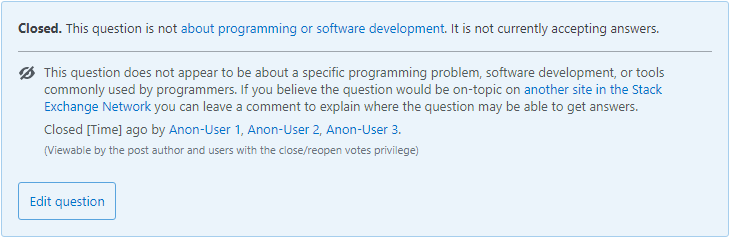
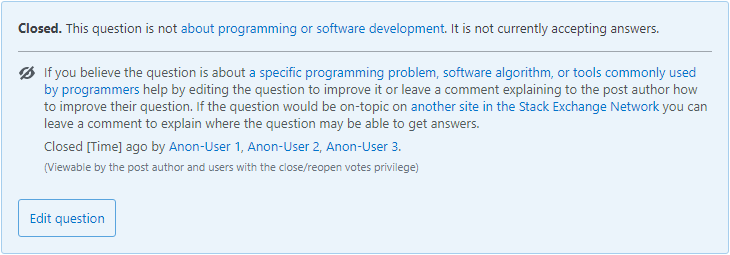
Close Dialogue / Privileged Users Guidance Tweaks

diff --git a/builders/html-output/mock-privileged-banner-rendered.html b/builders/html-output/mock-privileged-banner-rendered.html
@@ -46,7 +46,7 @@
             </div>
             <div class="flex--item lh-md">
                 <p class="mb0">
-                    This question does not appear to be about a specific programming problem, software development, or tools commonly used by programmers. If you believe the question would be on-topic  on <a href="https://stackexchange.com/sites">another site in the Stack Exchange Network</a> you can leave a comment to explain where the question may be able to get answers.
+                    If you believe the question is about <a href="https://stackoverflow.com/help/on-topic">a specific programming problem, software algorithm, or tools commonly used by programmers</a> help by editing the question to improve it or leave a comment explaining to the post author how to improve their question. If the question would be on-topic  on <a href="https://stackexchange.com/sites">another site in the Stack Exchange Network</a> you can leave a comment to explain where the question may be able to get answers.
                 </p>
                 <p class="mb0 mt6">Closed <span title="2022-05-12 17:33:51Z"
                                                 class="relativetime">[Time] ago</span>

diff --git a/builders/html-output/mock-close-dialogue-rendered.html b/builders/html-output/mock-close-dialogue-rendered.html
@@ -67,7 +67,7 @@
                                         Not about programming or software development
                                     </span>
                                     <p class="s-description">
-                                        This question does not appear to be about a specific programming problem, software algorithm, or tools commonly used by programmers. It may belong on <a href="https://stackexchange.com/sites">a different Stack Exchange site</a> or other external site.
+                                        This question does not appear to be about <a href="https://stackoverflow.com/help/on-topic">a specific programming problem, software algorithm, or tools commonly used by programmers</a>. It may belong on <a href="https://stackexchange.com/sites">a different Stack Exchange site</a> or other external site.
                                     </p>
                                 </label>
                             </div>

diff --git a/builders/main.py b/builders/main.py
@@ -113,7 +113,7 @@ def main() -> None:
             rendered_html=(
                     html_output_folder / 'mock-privileged-banner-rendered.html'
             ),
-            output_img_size=(694 + (pbm_px * 2), 202 + (pbm_px * 2))
+            output_img_size=(694 + (pbm_px * 2), 219 + (pbm_px * 2))
         ),
         "public_banner": RenderConfig(
             html_template=templates_folder / 'mock-public-banner.html',

diff --git a/builders/md-output/table.md b/builders/md-output/table.md
@@ -1,7 +1,7 @@
 | Field | Text | Markdown Length |
 |:---|:---|:---|
 | Brief Description | Not about programming or software development | 45 |
-| Usage guidance | This question does not appear to be about a specific programming problem, software algorithm, or tools commonly used by programmers. It may belong on [a different Stack Exchange site](https://stackexchange.com/sites) or other external site. | 240 |
+| Usage guidance | This question does not appear to be about [a specific programming problem, software algorithm, or tools commonly used by programmers](/help/on-topic). It may belong on [a different Stack Exchange site](https://stackexchange.com/sites) or other external site. | 258 |
 | Post notice close description | **Closed.** This question is not [about programming or software development](/help/closed-questions). It is not currently accepting answers. | 140 |
 | Post owner guidance | This question does not appear to be about a specific programming problem, software algorithm, or tools commonly used by programmers. You can edit the question so it’s [on-topic](/help/on-topic) or see if it can be answered on [another site on the Stack Exchange Network](https://stackexchange.com/sites). | 304 |
-| Privileged user guidance | This question does not appear to be about a specific programming problem, software development, or tools commonly used by programmers. If you believe the question would be on-topic  on [another site in the Stack Exchange Network](https://stackexchange.com/sites) you can leave a comment to explain where the question may be able to get answers. | 344 |
+| Privileged user guidance | If you believe the question is about [a specific programming problem, software algorithm, or tools commonly used by programmers](/help/on-topic) help by editing the question to improve it or leave a comment explaining to the post author how to improve their question. If the question would be on-topic  on [another site in the Stack Exchange Network](https://stackexchange.com/sites) you can leave a comment to explain where the question may be able to get answers. | 465 |
